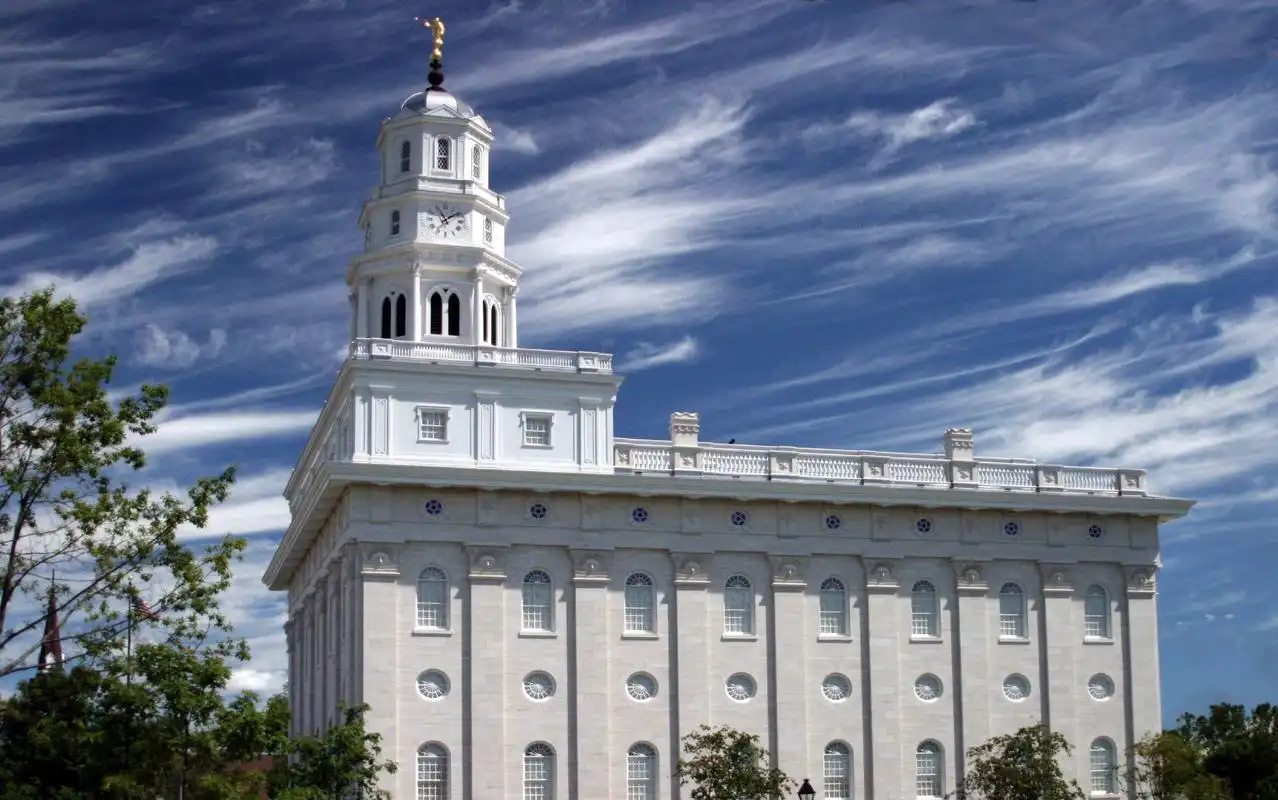
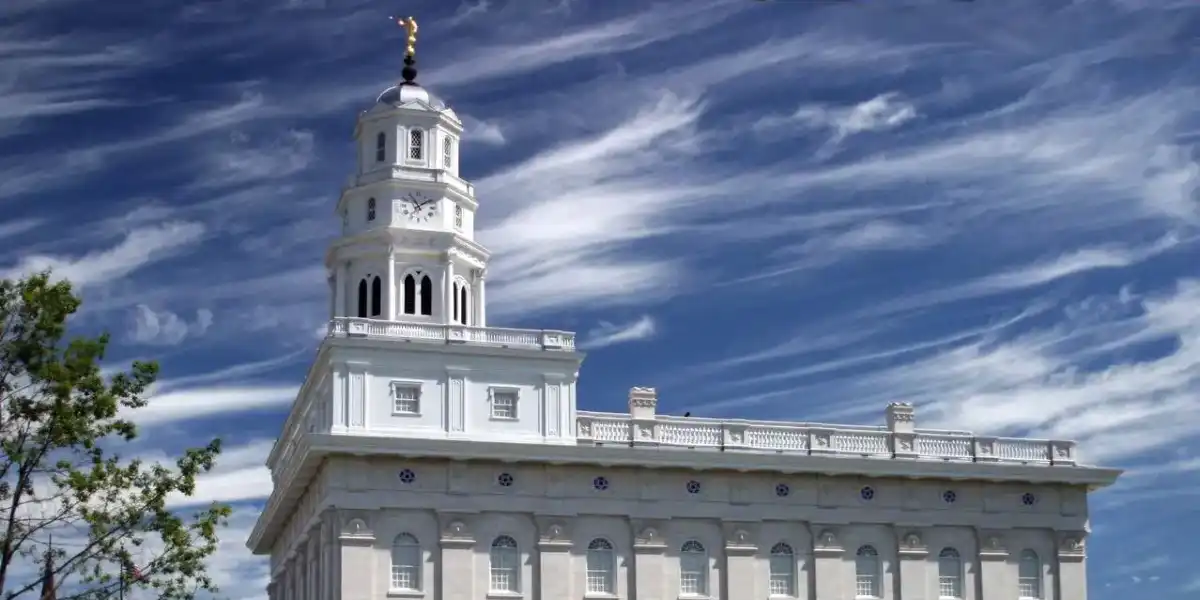
take 2 on temple hero images

diff --git a/lesson06/responsive-images.html b/lesson06/responsive-images.html
@@ -18,8 +18,8 @@
                 <source srcset="images/hero-small.webp" media="(max-width: 500px)">
                 <source srcset="images/hero-medium.webp" media="(max-width: 1000px)">
                 <img src="images/hero-large.webp"
-                    alt="Picture of the Nauvoo Temple in the summer, with a blue sky and green grass." width="1278"
-                    height="800">
+                    alt="Picture of the Nauvoo Temple in the summer." width="1200"
+                    height="600">
             </picture>
         </div>
     </main>

diff --git a/lesson06/styles/responsive-images.css b/lesson06/styles/responsive-images.css
@@ -1,5 +1,5 @@
 main {
-    max-width: 1500px;
+    max-width: 1200px;
     margin: 0 auto;
 }
 
